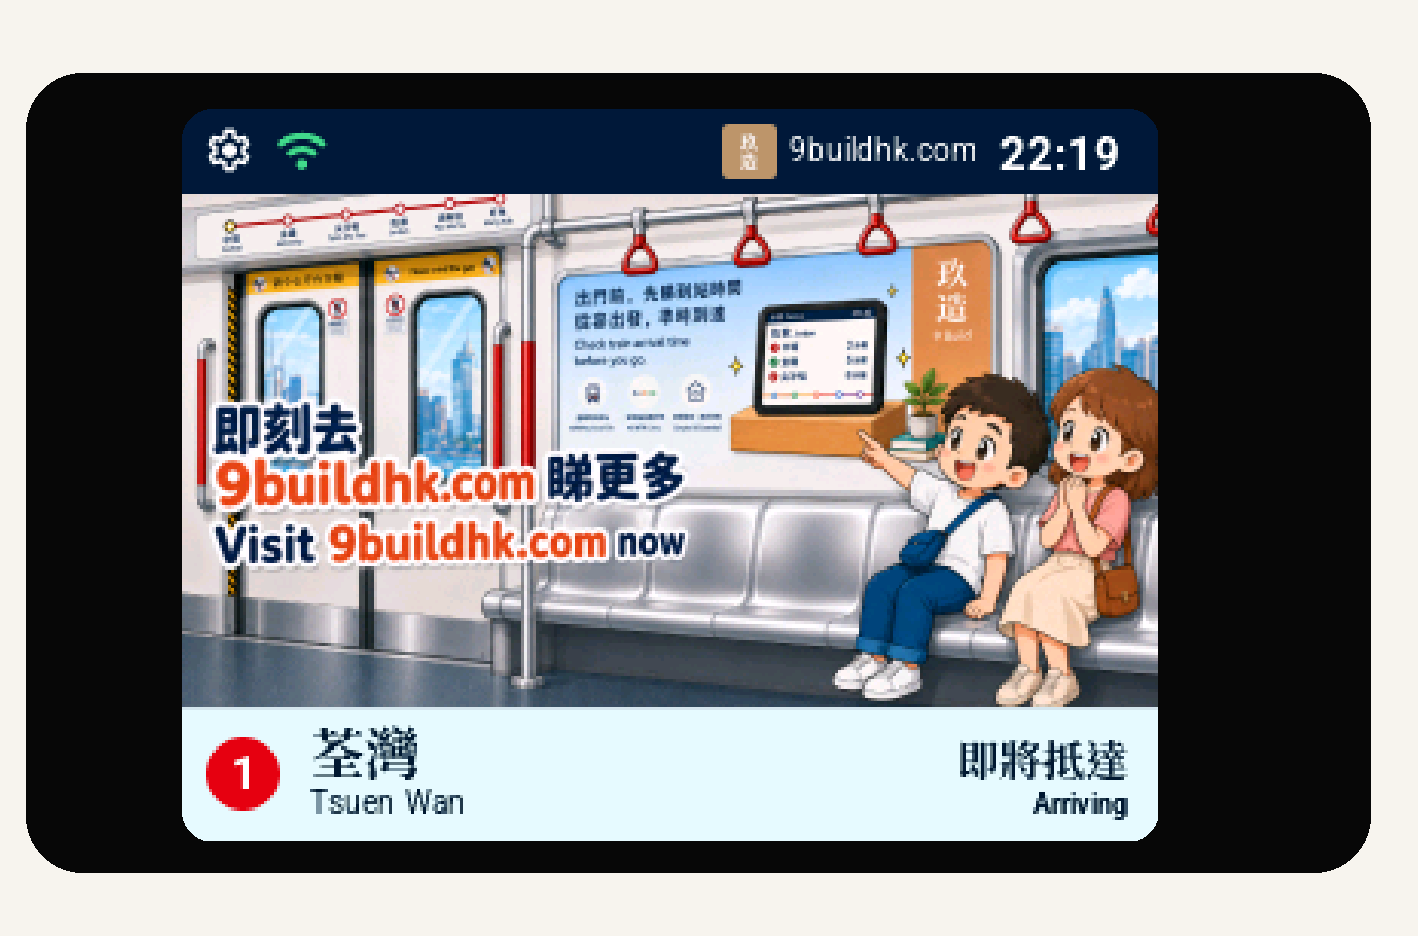
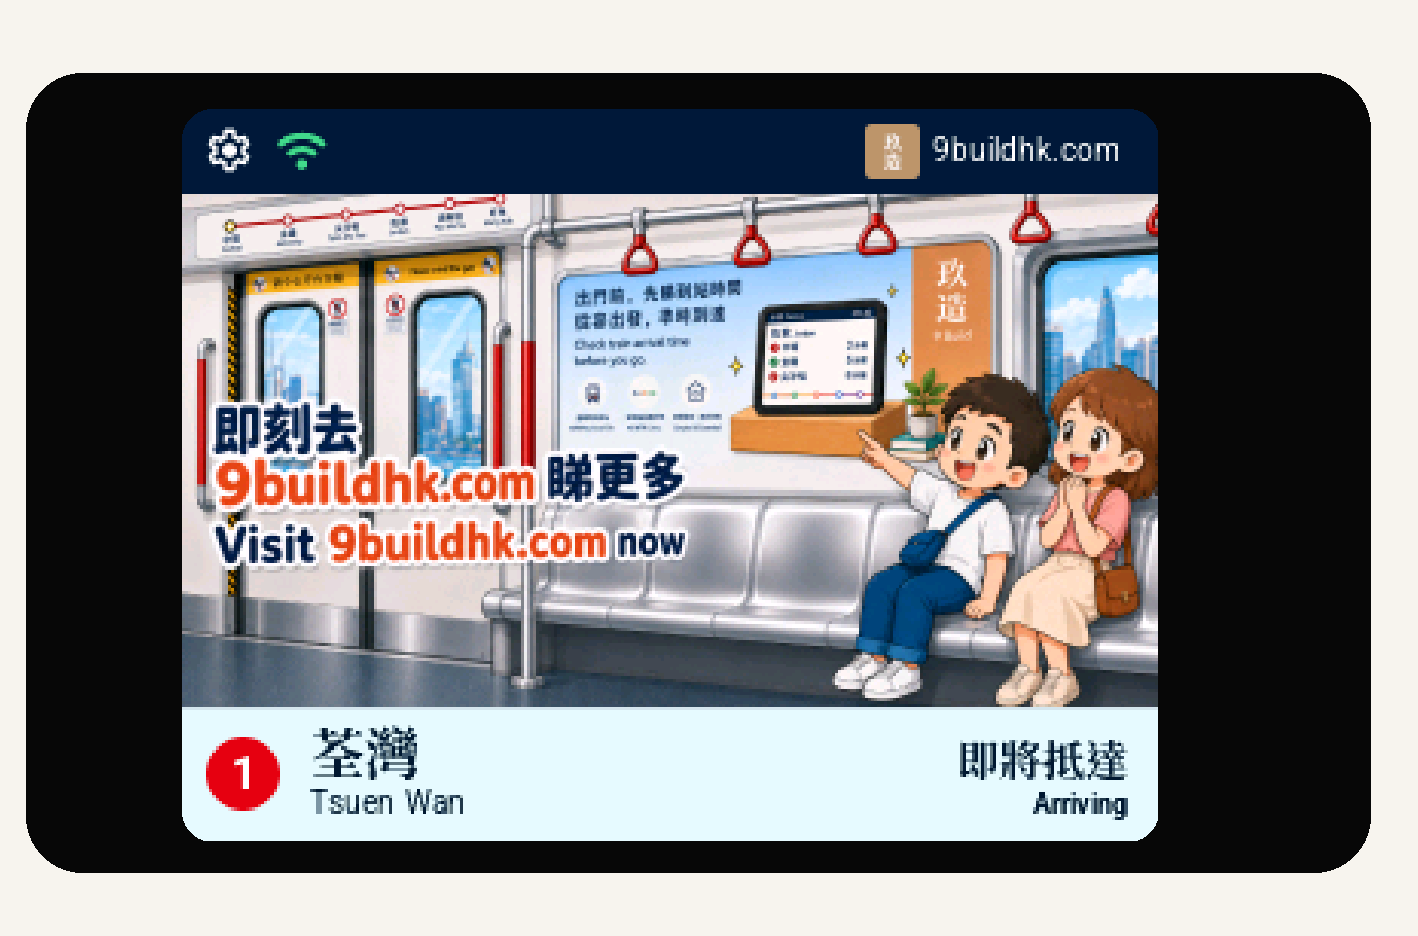
docs: update ce screenshots

Changed region(s): [[0.4965, 0.1239, 0.8068, 0.2169]]

diff --git a/README.md b/README.md
@@ -33,6 +33,10 @@
 
 Join a compatible 2.4 GHz Wi-Fi network directly on the display—no phone app or separate gateway is needed. HK Railway ETA Display then reads public MTR ETA data and shows the next trains, platforms, and destinations. It is made by [玖造 9 Build](https://9buildhk.com) in Hong Kong.
 
+Community Edition is intentionally focused on Heavy Rail ETA, Wi-Fi setup, and
+the built-in display. It does not include a clock, weather, Light Rail,
+display-orientation controls, or OTA updates.
+
 ## Highlights
 
 <table>
@@ -45,7 +49,7 @@ Join a compatible 2.4 GHz Wi-Fi network directly on the display—no phone app o
     <td width="33.33%" align="center" valign="top">
       <img src="./assets/ce-line-picker.png" alt="MTR line picker in the 9 Build device frame" width="100%"><br>
       <strong>Choose a line</strong><br>
-      <sub>Select the line and station you want to follow.</sub>
+      <sub>Select a line, then use the bottom station selector.</sub>
     </td>
     <td width="33.33%" align="center" valign="top">
       <img src="./assets/ce-baked-ad.png" alt="Built-in information and advertising display in the 9 Build device frame" width="100%"><br>

diff --git a/README.zh-HK.md b/README.zh-HK.md
@@ -33,6 +33,8 @@
 
 可直接在 display 上連接相容的 2.4 GHz Wi-Fi network，毋須手機 app 或額外 gateway。連接後，香港鐵路到站屏會讀取港鐵公開 ETA 資料，顯示下一班車、月台及目的地。產品由香港的 [玖造 9 Build](https://9buildhk.com) 製作。
 
+個人版（CE）專注提供重鐵 ETA、Wi-Fi 設定及內置資訊／宣傳畫面；不設時鐘、天氣、輕鐵、螢幕方向設定或 OTA 更新功能。
+
 ## 主要功能
 
 <table>
@@ -45,7 +47,7 @@
     <td width="33.33%" align="center" valign="top">
       <img src="./assets/ce-line-picker.png" alt="9 Build 裝置框架中的港鐵路線選擇畫面" width="100%"><br>
       <strong>選擇路線</strong><br>
-      <sub>選擇要追蹤的路線及車站。</sub>
+      <sub>揀選路綫，再用畫面底部嘅車站選擇列。</sub>
     </td>
     <td width="33.33%" align="center" valign="top">
       <img src="./assets/ce-baked-ad.png" alt="9 Build 裝置框架中的內置資訊及宣傳畫面" width="100%"><br>
